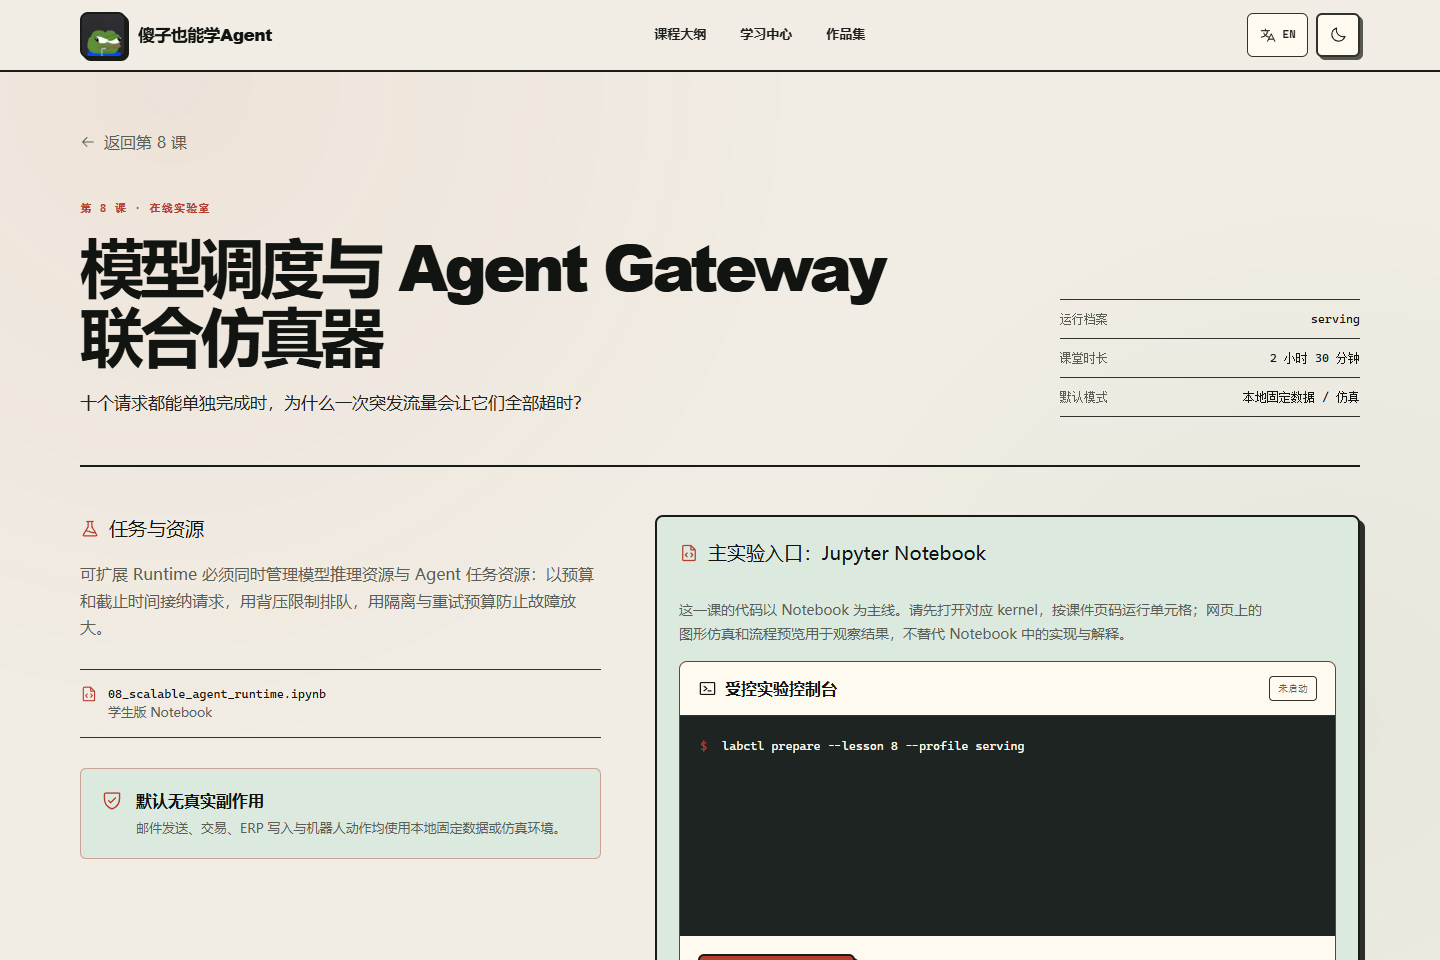
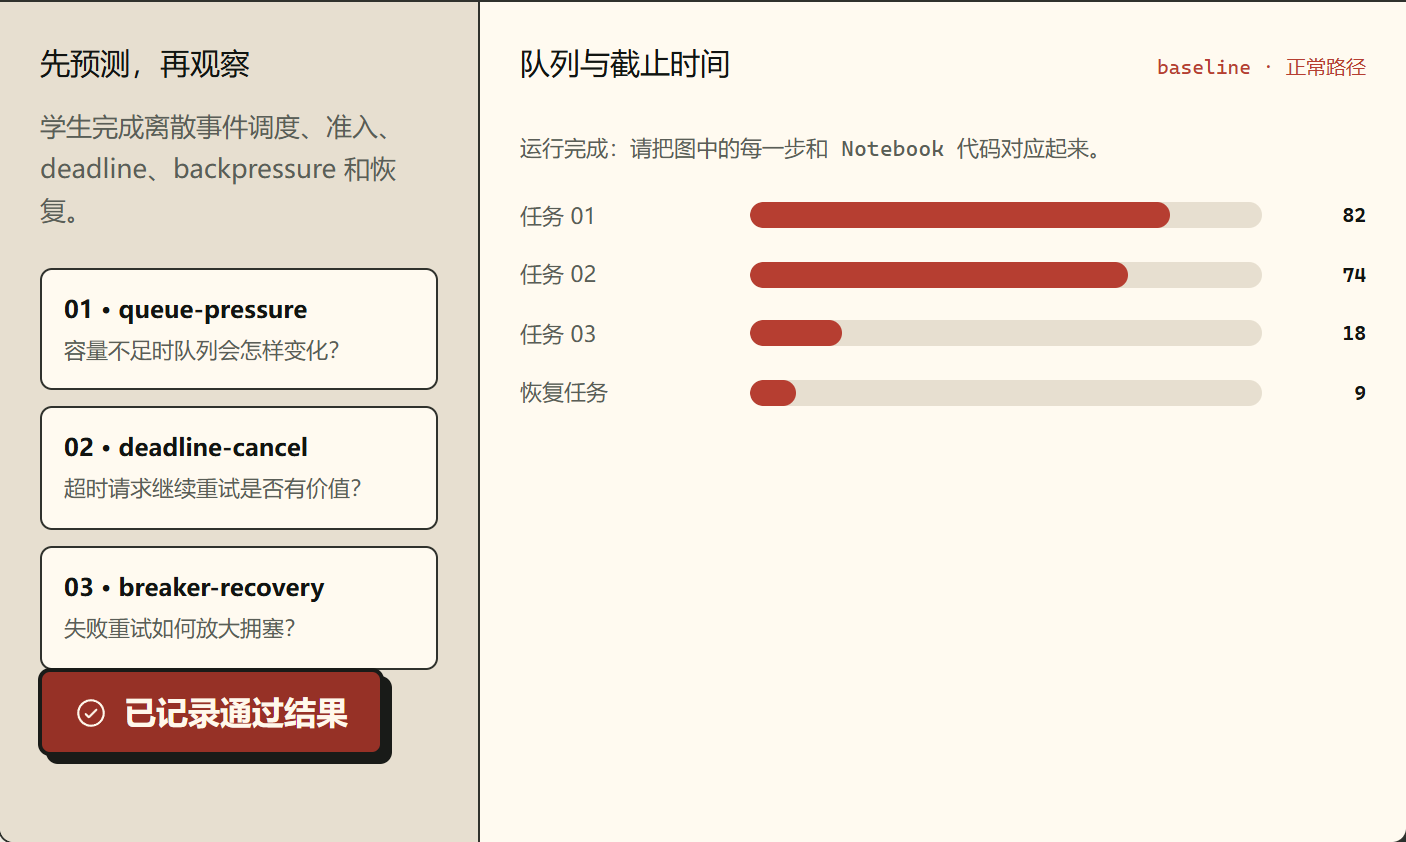
Refine AgentTect portfolio evidence

diff --git a/index.html b/index.html
@@ -179,9 +179,8 @@
         <article class="project-card project-card-featured" data-category="course">
           <div class="project-card-top"><span class="project-type"><span class="lang-en">Course + lab · Agent systems</span><span class="lang-zh">课程与实验 · Agent 系统</span></span><span class="project-number">P03</span></div>
           <div class="project-gallery course-gallery">
-            <a href="https://github.com/TardisBooo/ml-serving-contract-lab" target="_blank" rel="noreferrer"><img src="assets/ml-serving-course-home.png" alt="ML Serving Contract Lab course homepage" data-alt-en="ML Serving Contract Lab course homepage" data-alt-zh="ML Serving Contract Lab 课程首页" loading="lazy" /></a>
             <a href="assets/agenttect-course-home.png" target="_blank" rel="noreferrer"><img src="assets/agenttect-course-home.png" alt="AgentTect Academy course home" data-alt-en="AgentTect Academy course home" data-alt-zh="AgentTect Academy 课程首页" loading="lazy" /></a>
-            <a href="assets/agenttect-serving-course.png" target="_blank" rel="noreferrer"><img src="assets/agenttect-serving-course.png" alt="AgentTect Academy serving lesson" data-alt-en="AgentTect Academy serving lesson" data-alt-zh="AgentTect Academy Serving 课程" loading="lazy" /></a>
+            <a href="assets/agenttect-lab.png" target="_blank" rel="noreferrer"><img src="assets/agenttect-lab.png" alt="AgentTect Academy simulation results" data-alt-en="AgentTect Academy simulation results" data-alt-zh="AgentTect Academy 仿真运行结果" loading="lazy" /></a>
           </div>
           <div class="project-card-body"><h3>AgentTect Academy · ML Serving Contract Lab</h3><p class="project-lead"><span class="lang-en">A course-and-lab track for building testable Agent and inference systems, from runtime concepts and concurrency to API contracts, streaming, limits, and observability.</span><span class="lang-zh">一条围绕 Agent 运行时与推理服务的课程与实验路径，从并发运行时到 API 契约、流式行为、限流和可观测性。</span></p><p><span class="lang-en">AgentTect Academy provides the course platform and lesson context; ML Serving Contract Lab provides the standalone serving implementation and course materials.</span><span class="lang-zh">AgentTect Academy 提供课程平台和课程上下文；ML Serving Contract Lab 提供独立的推理服务实现与课程材料。</span></p><div class="tag-list"><span>13 lessons</span><span>Agent systems</span><span>FastAPI</span><span>Streaming</span><span>Contract tests</span><span>Observability</span></div><div class="project-actions"><a class="button button-secondary" href="https://github.com/TardisBooo/ml-serving-contract-lab" target="_blank" rel="noreferrer"><span class="lang-en">Open course repo</span><span class="lang-zh">打开课程仓库</span><span aria-hidden="true">↗</span></a><a class="text-link" href="assets/agenttect-serving-course.png" target="_blank" rel="noreferrer"><span class="lang-en">View serving lesson</span><span class="lang-zh">查看 Serving 课程</span><span aria-hidden="true">↗</span></a><a class="text-link" href="assets/agenttect-lab.png" target="_blank" rel="noreferrer"><span class="lang-en">View lab evidence</span><span class="lang-zh">查看实验室实证</span><span aria-hidden="true">↗</span></a></div></div>
           <details class="evidence-details"><summary><span class="lang-en">How the two parts connect</span><span class="lang-zh">两部分如何关联</span></summary><p><span class="lang-en">They are related as one learning and presentation track, not one repository: AgentTect is the course platform; ML Serving Contract Lab is the focused serving lab.</span><span class="lang-zh">两者属于同一条学习与展示路径，但不是同一个仓库：AgentTect 是课程平台，ML Serving Contract Lab 是聚焦推理服务的独立实验项目。</span></p></details>

diff --git a/style.css b/style.css
@@ -156,7 +156,7 @@ button, a { -webkit-tap-highlight-color: transparent; }
 .project-card .project-actions { margin-top: 20px; }
 .project-gallery { display: grid; gap: 9px; }
 .project-gallery-viewatom { grid-template-columns: repeat(2, minmax(0, 1fr)); padding: 0 20px 20px; }
-.course-gallery { grid-template-columns: 1.2fr repeat(2, minmax(0, 1fr)); padding: 0 20px 20px; }
+.course-gallery { grid-template-columns: repeat(2, minmax(0, 1fr)); padding: 0 20px 20px; }
 .project-gallery a { display: block; overflow: hidden; border-radius: var(--radius-sm); background: #101313; }
 .project-gallery img, .project-media img { display: block; width: 100%; max-width: 100%; border: 0; outline: 1px solid rgba(20, 32, 29, 0.12); object-fit: cover; transition: transform 260ms ease; }
 .project-gallery a:hover img { transform: scale(1.025); }
